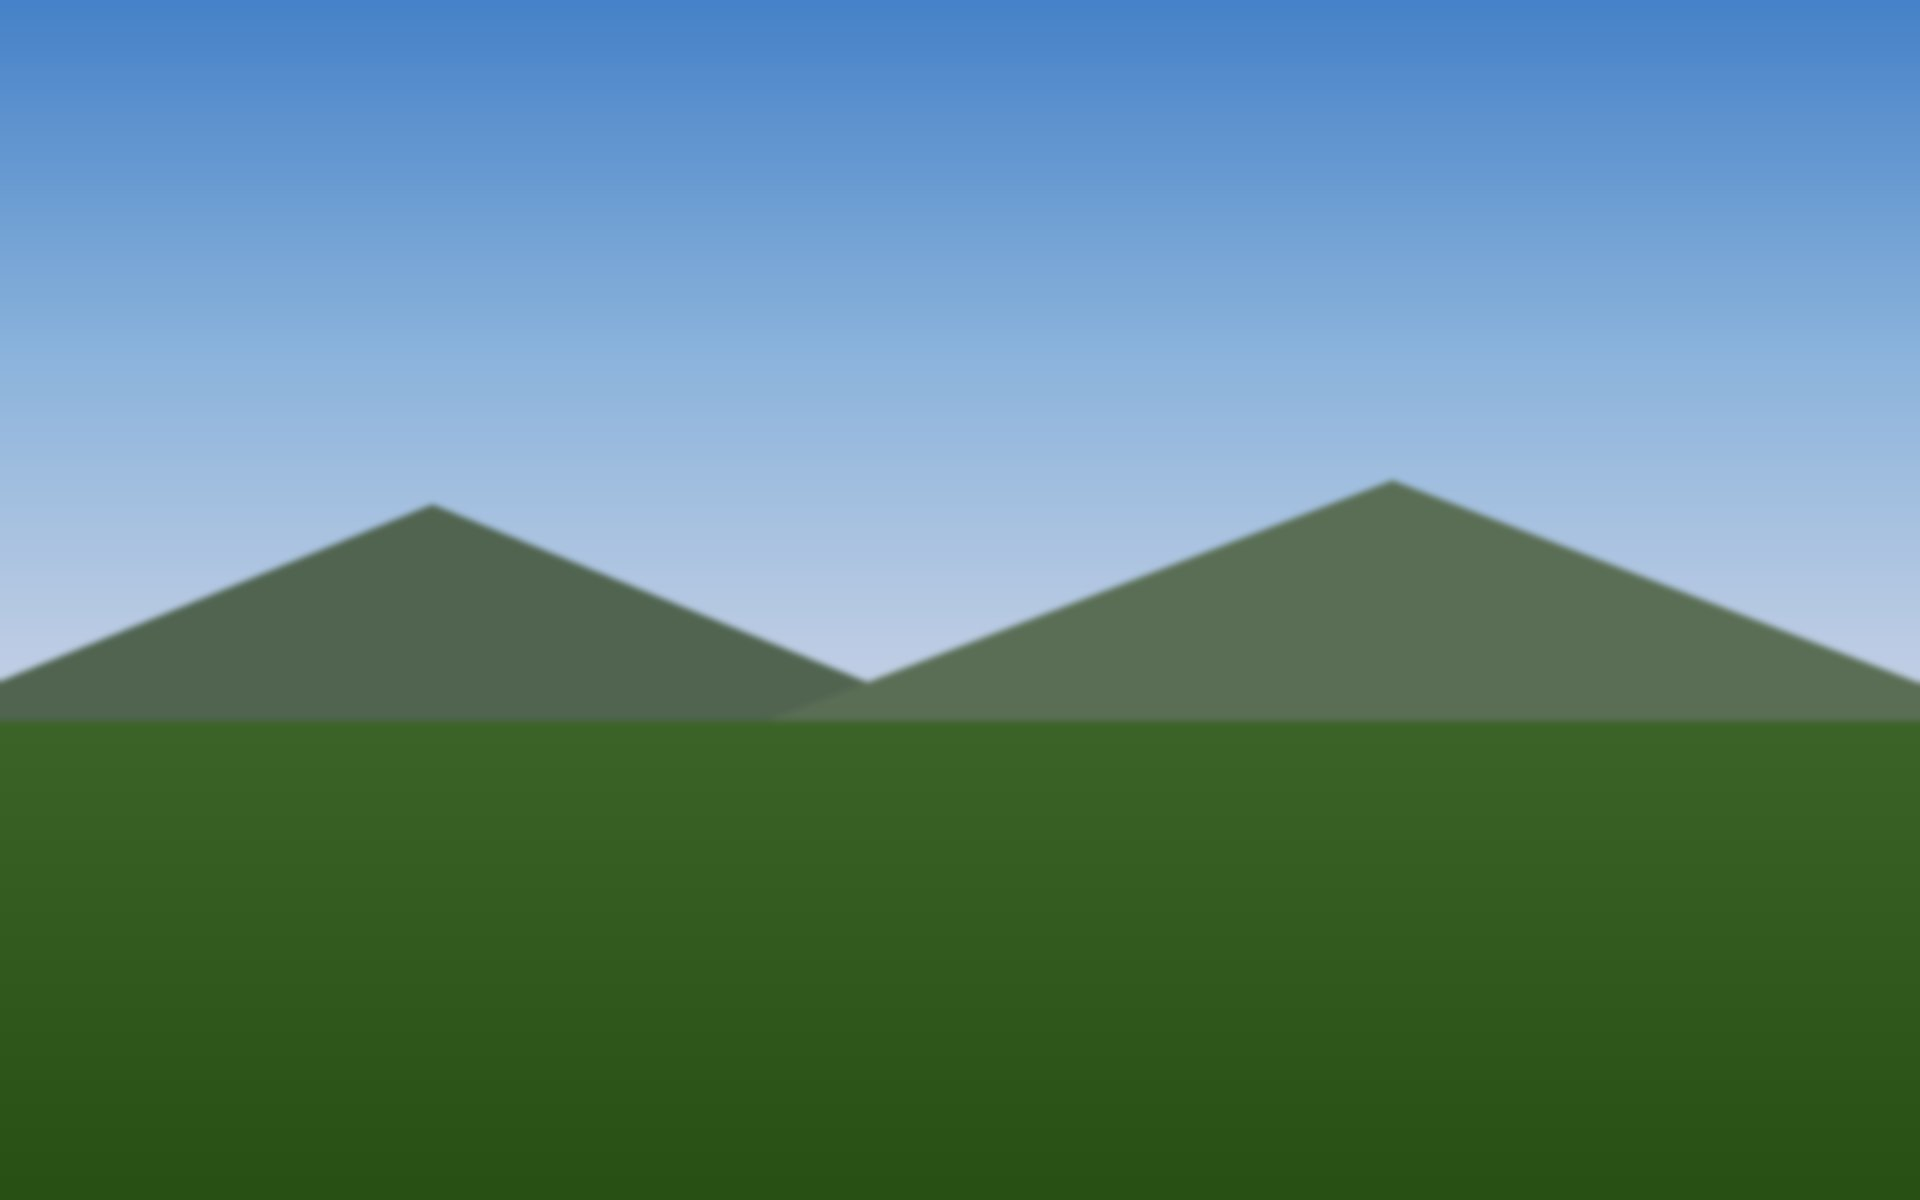
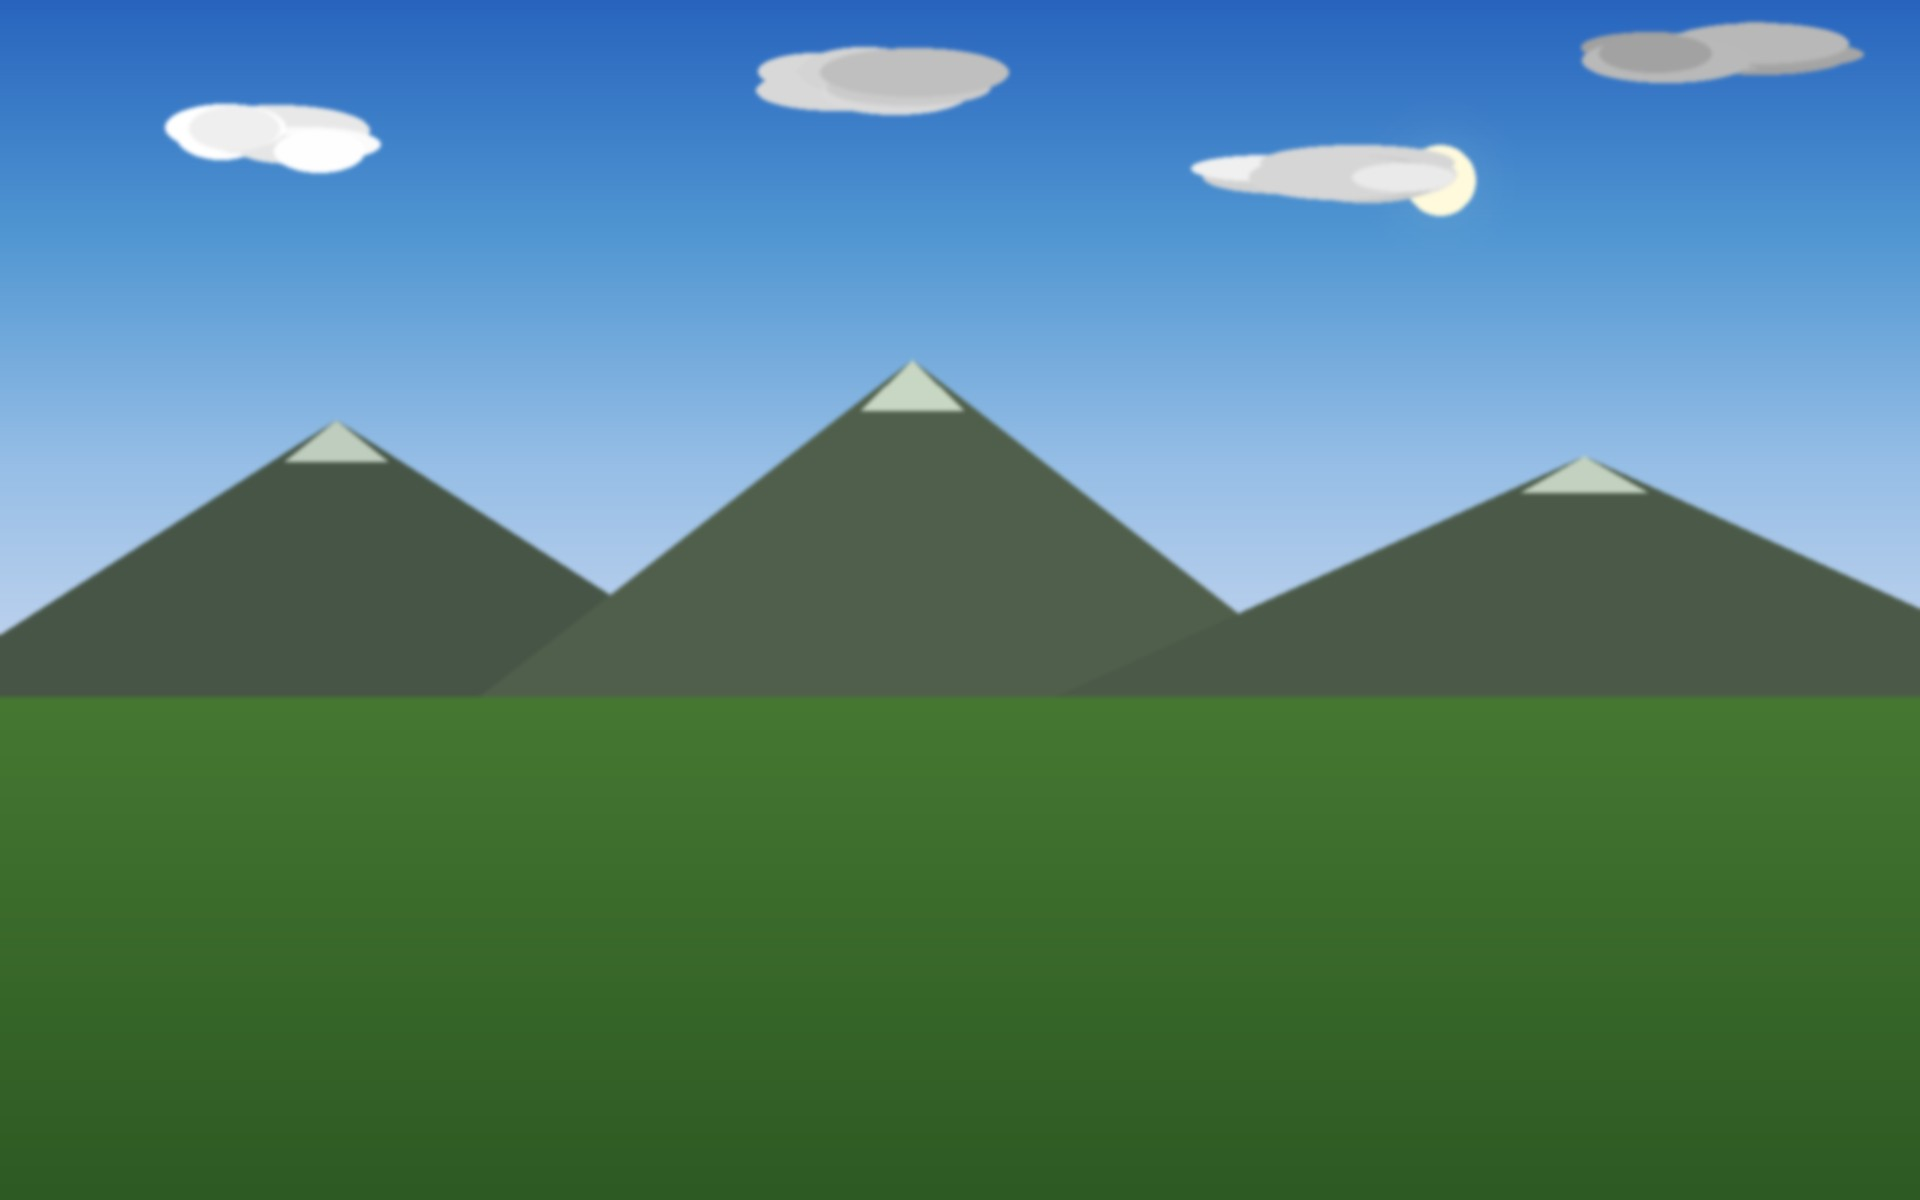
Improve placeholder images, hide cursor immediately on boot
- generate_defaults.py: richer landscapes with sun/moon glow, clouds,
  snow-capped mountains, water reflections, stars (twilight scene)
- labwc rc.xml: cursor hideTimeout 0 + size 1 (invisible from start)

diff --git a/scripts/generate_defaults.py b/scripts/generate_defaults.py
@@ -7,6 +7,8 @@ immediately on first boot, before any photo sync has happened.
 Run once during development; commit the generated JPGs to the repo.
 """
 
+import math
+import random
 import sys
 from pathlib import Path
 from PIL import Image, ImageDraw, ImageFilter
@@ -18,57 +20,83 @@ V_WIDTH, V_HEIGHT = 1200, 1920
 SCENES = [
     {
         'name': 'default_sunset',
-        'sky': [(25, 25, 80), (180, 80, 40), (220, 140, 60)],
+        'sky': [(15, 10, 45), (140, 50, 30), (220, 120, 40), (250, 180, 80)],
         'horizon': 0.55,
-        'ground': (30, 45, 25),
+        'ground': (25, 40, 20),
+        'ground_highlight': (50, 60, 25),
         'mountains': [
-            {'peak': 0.38, 'left': -0.1, 'right': 0.55, 'color': (50, 40, 50)},
-            {'peak': 0.35, 'left': 0.35, 'right': 1.1, 'color': (60, 45, 55)},
+            {'peak': 0.32, 'left': -0.15, 'right': 0.45, 'color': (40, 30, 45), 'snow': False},
+            {'peak': 0.28, 'left': 0.20, 'right': 0.65, 'color': (50, 35, 50), 'snow': False},
+            {'peak': 0.35, 'left': 0.50, 'right': 1.15, 'color': (55, 40, 52), 'snow': False},
         ],
+        'sun': {'x': 0.5, 'y': 0.50, 'radius': 40, 'color': (255, 200, 100), 'glow': 120},
+        'water': True,
+        'water_horizon': 0.70,
+        'stars': False,
+        'clouds': [(0.2, 0.15, 200), (0.6, 0.10, 160), (0.85, 0.18, 140)],
     },
     {
         'name': 'default_daylight',
-        'sky': [(70, 130, 200), (140, 180, 220), (200, 210, 230)],
-        'horizon': 0.6,
-        'ground': (60, 100, 40),
+        'sky': [(40, 100, 190), (80, 150, 210), (150, 190, 230), (200, 215, 240)],
+        'horizon': 0.58,
+        'ground': (45, 90, 35),
+        'ground_highlight': (70, 120, 50),
         'mountains': [
-            {'peak': 0.42, 'left': -0.05, 'right': 0.5, 'color': (80, 100, 80)},
-            {'peak': 0.40, 'left': 0.4, 'right': 1.05, 'color': (90, 110, 85)},
+            {'peak': 0.35, 'left': -0.05, 'right': 0.40, 'color': (70, 85, 70), 'snow': True},
+            {'peak': 0.30, 'left': 0.25, 'right': 0.70, 'color': (80, 95, 75), 'snow': True},
+            {'peak': 0.38, 'left': 0.55, 'right': 1.10, 'color': (75, 90, 72), 'snow': True},
         ],
+        'sun': {'x': 0.75, 'y': 0.15, 'radius': 35, 'color': (255, 250, 220), 'glow': 100},
+        'water': False,
+        'stars': False,
+        'clouds': [(0.15, 0.20, 250), (0.45, 0.12, 200), (0.70, 0.25, 220), (0.90, 0.08, 180)],
     },
     {
         'name': 'default_twilight',
-        'sky': [(15, 15, 50), (60, 30, 80), (120, 60, 90)],
-        'horizon': 0.5,
-        'ground': (20, 25, 20),
+        'sky': [(5, 5, 25), (15, 10, 45), (50, 20, 70), (100, 50, 80)],
+        'horizon': 0.50,
+        'ground': (15, 18, 15),
+        'ground_highlight': (25, 28, 22),
         'mountains': [
-            {'peak': 0.30, 'left': -0.1, 'right': 0.6, 'color': (30, 25, 40)},
-            {'peak': 0.33, 'left': 0.3, 'right': 1.1, 'color': (35, 28, 45)},
+            {'peak': 0.28, 'left': -0.10, 'right': 0.50, 'color': (25, 20, 35), 'snow': False},
+            {'peak': 0.32, 'left': 0.35, 'right': 1.10, 'color': (30, 22, 40), 'snow': False},
         ],
+        'sun': None,
+        'moon': {'x': 0.7, 'y': 0.18, 'radius': 20, 'color': (220, 220, 200)},
+        'water': True,
+        'water_horizon': 0.65,
+        'stars': True,
+        'clouds': [(0.3, 0.22, 80)],
     },
     {
         'name': 'default_morning',
-        'sky': [(100, 150, 200), (180, 190, 210), (240, 220, 180)],
-        'horizon': 0.58,
-        'ground': (50, 80, 35),
+        'sky': [(80, 120, 180), (150, 170, 200), (200, 200, 210), (240, 210, 170)],
+        'horizon': 0.55,
+        'ground': (50, 85, 35),
+        'ground_highlight': (80, 115, 50),
         'mountains': [
-            {'peak': 0.40, 'left': 0.1, 'right': 0.7, 'color': (100, 120, 100)},
-            {'peak': 0.43, 'left': 0.55, 'right': 1.15, 'color': (110, 125, 105)},
+            {'peak': 0.33, 'left': 0.00, 'right': 0.50, 'color': (90, 105, 90), 'snow': True},
+            {'peak': 0.36, 'left': 0.35, 'right': 0.80, 'color': (100, 115, 95), 'snow': True},
+            {'peak': 0.40, 'left': 0.65, 'right': 1.15, 'color': (95, 108, 88), 'snow': False},
         ],
+        'sun': {'x': 0.85, 'y': 0.45, 'radius': 30, 'color': (255, 230, 160), 'glow': 90},
+        'water': False,
+        'stars': False,
+        'clouds': [(0.10, 0.18, 230), (0.40, 0.10, 200), (0.65, 0.22, 210)],
     },
 ]
 
 
 def lerp_color(c1, c2, t):
-    return tuple(int(a + (b - a) * t) for a, b in zip(c1, c2))
+    return tuple(int(a + (b - a) * max(0, min(1, t))) for a, b in zip(c1, c2))
 
 
-def draw_sky_gradient(draw, width, height, horizon_y, colors):
+def draw_sky_gradient(img, width, height, horizon_y, colors):
     """Draw a multi-stop vertical gradient for the sky."""
+    draw = ImageDraw.Draw(img)
     stops = len(colors)
     for y in range(horizon_y):
         t = y / max(horizon_y - 1, 1)
-        # Find which two stops we're between
         pos = t * (stops - 1)
         idx = min(int(pos), stops - 2)
         frac = pos - idx
@@ -76,52 +104,168 @@ def draw_sky_gradient(draw, width, height, horizon_y, colors):
         draw.line([(0, y), (width, y)], fill=color)
 
 
-def draw_mountain(draw, width, peak_y, left_x, right_x, base_y, color):
-    """Draw a triangle mountain shape."""
+def draw_sun(img, width, height, sun):
+    """Draw sun with glow effect."""
+    if not sun:
+        return
+    cx = int(width * sun['x'])
+    cy = int(height * sun['y'])
+    r = sun['radius']
+    glow_r = sun.get('glow', 100)
+
+    # Glow layers
+    overlay = Image.new('RGBA', (width, height), (0, 0, 0, 0))
+    draw = ImageDraw.Draw(overlay)
+    for i in range(glow_r, 0, -2):
+        alpha = int(30 * (1 - i / glow_r) ** 2)
+        gc = tuple(sun['color']) + (alpha,)
+        draw.ellipse([cx - i, cy - i, cx + i, cy + i], fill=gc)
+
+    # Solid sun
+    draw.ellipse([cx - r, cy - r, cx + r, cy + r], fill=tuple(sun['color']) + (255,))
+    img.paste(Image.alpha_composite(img.convert('RGBA'), overlay).convert('RGB'))
+
+
+def draw_moon(img, width, height, moon):
+    """Draw a crescent moon."""
+    if not moon:
+        return
+    cx = int(width * moon['x'])
+    cy = int(height * moon['y'])
+    r = moon['radius']
+    draw = ImageDraw.Draw(img)
+    draw.ellipse([cx - r, cy - r, cx + r, cy + r], fill=moon['color'])
+    # Crescent shadow
+    shadow_offset = int(r * 0.4)
+    # Sample sky color near moon for shadow
+    sx, sy = min(cx + r + 5, width - 1), cy
+    sky_color = img.getpixel((sx, sy))
+    draw.ellipse([cx - r + shadow_offset, cy - r - 2, cx + r + shadow_offset, cy + r - 2],
+                 fill=sky_color)
+
+
+def draw_stars(img, width, horizon_y):
+    """Scatter stars in the sky."""
+    draw = ImageDraw.Draw(img)
+    rng = random.Random(42)
+    for _ in range(120):
+        x = rng.randint(0, width - 1)
+        y = rng.randint(0, int(horizon_y * 0.8))
+        brightness = rng.randint(160, 255)
+        size = rng.choice([0, 0, 0, 1])
+        if size == 0:
+            draw.point((x, y), fill=(brightness, brightness, brightness))
+        else:
+            draw.ellipse([x, y, x + 1, y + 1], fill=(brightness, brightness, brightness))
+
+
+def draw_clouds(draw, width, height, clouds, horizon_y):
+    """Draw simple layered clouds."""
+    rng = random.Random(123)
+    for cx_frac, cy_frac, brightness in clouds:
+        cx = int(width * cx_frac)
+        cy = int(horizon_y * cy_frac)
+        # Cloud is a cluster of ellipses
+        for _ in range(8):
+            ox = rng.randint(-80, 80)
+            oy = rng.randint(-12, 12)
+            rw = rng.randint(40, 100)
+            rh = rng.randint(12, 25)
+            b = brightness + rng.randint(-20, 20)
+            alpha_color = (b, b, b)
+            draw.ellipse([cx + ox - rw, cy + oy - rh, cx + ox + rw, cy + oy + rh],
+                         fill=alpha_color)
+
+
+def draw_mountain(draw, width, peak_y, left_x, right_x, base_y, color, snow=False):
+    """Draw a mountain with optional snow cap."""
     peak_x = (left_x + right_x) // 2
     draw.polygon([(left_x, base_y), (peak_x, peak_y), (right_x, base_y)], fill=color)
+    if snow:
+        snow_y = peak_y + int((base_y - peak_y) * 0.15)
+        snow_color = tuple(min(255, c + 120) for c in color)
+        draw.polygon([
+            (peak_x - int((right_x - left_x) * 0.06), snow_y),
+            (peak_x, peak_y),
+            (peak_x + int((right_x - left_x) * 0.06), snow_y),
+        ], fill=snow_color)
 
 
-def draw_ground(draw, width, height, horizon_y, color):
-    """Fill ground area with a slight gradient."""
+def draw_ground(draw, width, height, horizon_y, color, highlight):
+    """Fill ground area with gradient."""
     for y in range(horizon_y, height):
         t = (y - horizon_y) / max(height - horizon_y - 1, 1)
-        darker = lerp_color(color, tuple(max(0, c - 20) for c in color), t)
-        draw.line([(0, y), (width, y)], fill=darker)
+        c = lerp_color(highlight, color, t)
+        draw.line([(0, y), (width, y)], fill=c)
+
+
+def draw_water(img, width, height, horizon_y, water_y):
+    """Draw water with sky reflection."""
+    water_start = int(height * water_y)
+    # Reflect the sky portion into water
+    sky_strip = img.crop((0, 0, width, water_start))
+    reflected = sky_strip.transpose(Image.FLIP_TOP_BOTTOM)
+    water_height = height - water_start
+    reflected = reflected.resize((width, water_height), Image.LANCZOS)
+    # Darken and blue-shift
+    from PIL import ImageEnhance
+    reflected = ImageEnhance.Brightness(reflected).enhance(0.5)
+    img.paste(reflected, (0, water_start))
+    # Horizontal ripple lines
+    draw = ImageDraw.Draw(img)
+    rng = random.Random(99)
+    for y in range(water_start, height, 4):
+        alpha = int(20 + 15 * ((y - water_start) / max(water_height, 1)))
+        draw.line([(0, y), (width, y)],
+                  fill=(alpha, alpha, alpha + 10))
 
 
 def generate_landscape(scene, width, height):
     """Generate a single landscape image from a scene definition."""
     img = Image.new('RGB', (width, height))
-    draw = ImageDraw.Draw(img)
-
     horizon_y = int(height * scene['horizon'])
 
     # Sky
-    draw_sky_gradient(draw, width, height, horizon_y, scene['sky'])
+    draw_sky_gradient(img, width, height, horizon_y, scene['sky'])
+
+    # Stars (before other elements)
+    if scene.get('stars'):
+        draw_stars(img, width, horizon_y)
+
+    # Sun or Moon (behind mountains)
+    if scene.get('sun'):
+        draw_sun(img, width, height, scene['sun'])
+    if scene.get('moon'):
+        draw_moon(img, width, height, scene['moon'])
+
+    draw = ImageDraw.Draw(img)
+
+    # Clouds
+    if scene.get('clouds'):
+        draw_clouds(draw, width, height, scene['clouds'], horizon_y)
 
     # Ground
-    draw_ground(draw, width, height, horizon_y, scene['ground'])
+    draw_ground(draw, width, height, horizon_y, scene['ground'], scene.get('ground_highlight', scene['ground']))
 
     # Mountains
     for m in scene['mountains']:
         peak_y = int(height * m['peak'])
         left_x = int(width * m['left'])
         right_x = int(width * m['right'])
-        draw_mountain(draw, width, peak_y, left_x, right_x, horizon_y, m['color'])
+        draw_mountain(draw, width, peak_y, left_x, right_x, horizon_y, m['color'], m.get('snow', False))
 
-    # Soften everything slightly
-    img = img.filter(ImageFilter.GaussianBlur(radius=3))
+    # Water reflection
+    if scene.get('water'):
+        draw_water(img, width, height, horizon_y, scene.get('water_horizon', 0.7))
+
+    # Soften slightly
+    img = img.filter(ImageFilter.GaussianBlur(radius=2))
 
     return img
 
 
 def create_blur_fill(image, target_w, target_h, blur_radius=40, darken=0.6):
-    """Create image at target dimensions with blur-filled background.
-
-    Same logic as photo_sync.create_blur_fill — cross-orientation images get
-    a blurred+darkened background with the sharp image centered.
-    """
+    """Create image at target dimensions with blur-filled background."""
     from PIL import ImageEnhance
 
     img_w, img_h = image.size
@@ -174,13 +318,13 @@ def main():
         # Horizontal (native landscape)
         h_img = generate_landscape(scene, H_WIDTH, H_HEIGHT)
         h_path = h_dir / f"{name}.jpg"
-        h_img.save(h_path, 'JPEG', quality=85, optimize=True)
+        h_img.save(h_path, 'JPEG', quality=90, optimize=True)
         print(f"  -> {h_path} ({h_img.size[0]}x{h_img.size[1]})")
 
         # Vertical (blur-fill from horizontal source)
         v_img = create_blur_fill(h_img, V_WIDTH, V_HEIGHT)
         v_path = v_dir / f"{name}.jpg"
-        v_img.save(v_path, 'JPEG', quality=85, optimize=True)
+        v_img.save(v_path, 'JPEG', quality=90, optimize=True)
         print(f"  -> {v_path} ({v_img.size[0]}x{v_img.size[1]})")
 
         del h_img, v_img
